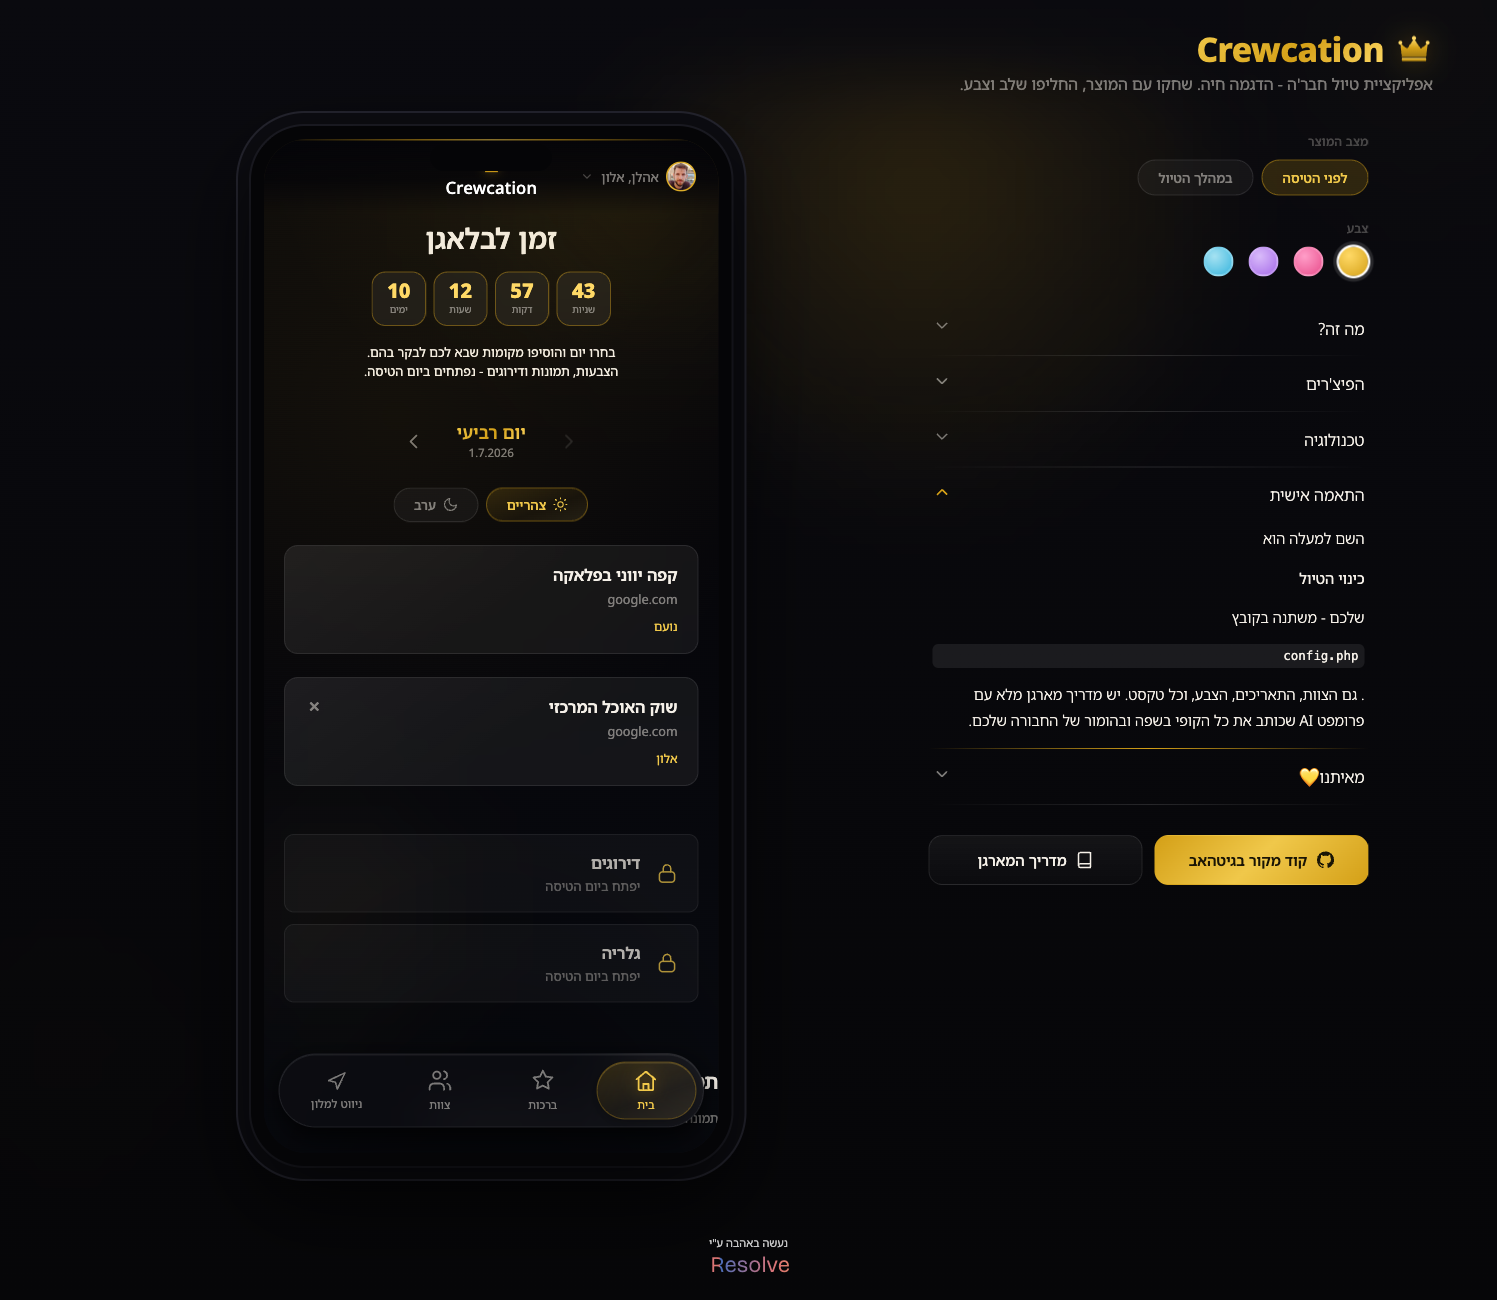
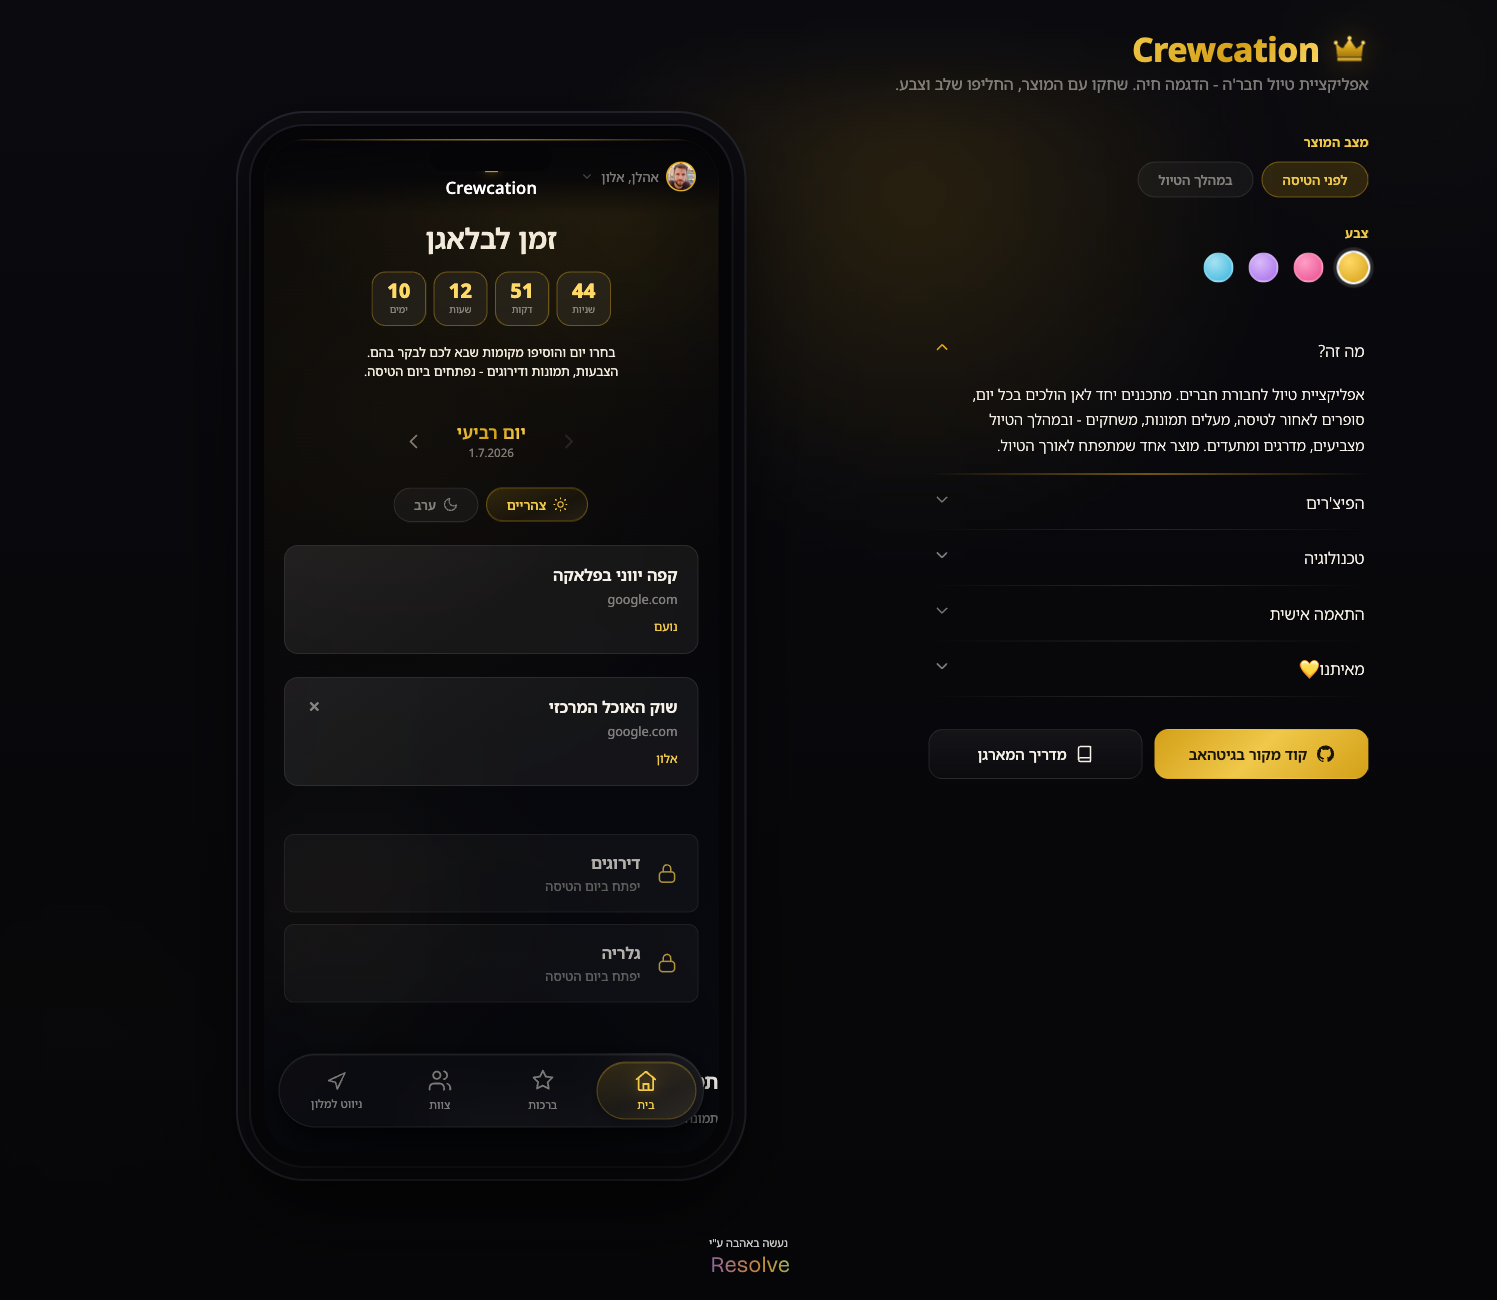
תיקון דליפת קוד בכרטיס החתן + ליטוש פלייגראונד
- באג קריטי: ?> בתוך הערת // ב-member.php שבר את הפרסור והדליף קוד PHP כטקסט
  בכרטיס החתן. תוקן - גם מחזיר את תמונות הצוות "שלרשותו"
- כותרת מיושרת עם הפאנל (אותו max-width)
- תוויות (מצב המוצר/צבע) בזהב במקום אפור - אסור אפור על כהה
- אוויר בין הבקרות לאקורדיונים
- מודל דמו נקי: בורדר זהב עדין + טשטוש רקע, בלי הצללה גסה
- ליטוש קופי "מה זה" בקול של גיא

diff --git a/assets/style.css b/assets/style.css
@@ -111,8 +111,11 @@
     background: rgba(4,4,8,0.72); backdrop-filter: blur(6px); padding: 24px; }
 .demo-modal.show { display: flex; animation: dm-fade .18s ease; }
 @keyframes dm-fade { from { opacity: 0; } to { opacity: 1; } }
-.demo-modal-card { background: var(--bg-elevated); border: 1px solid var(--border-gold); border-radius: var(--radius-xl);
-    padding: 26px 24px; max-width: 320px; text-align: center; box-shadow: var(--glow-gold); animation: dm-pop .22s cubic-bezier(.2,.8,.2,1); }
+.demo-modal-card { background: rgba(17,17,24,0.82); backdrop-filter: blur(20px); -webkit-backdrop-filter: blur(20px);
+    border: 1.5px solid var(--gold); border-radius: var(--radius-xl);
+    padding: 26px 24px; max-width: 320px; text-align: center;
+    box-shadow: 0 12px 40px rgba(0,0,0,0.5), 0 0 0 1px rgba(var(--accent-rgb),0.12);
+    animation: dm-pop .22s cubic-bezier(.2,.8,.2,1); }
 @keyframes dm-pop { from { transform: scale(.9); opacity: 0; } to { transform: scale(1); opacity: 1; } }
 .demo-modal-card .dm-emoji { font-size: 2.4rem; }
 .demo-modal-card .dm-title { font-size: 1.25rem; font-weight: 800; margin: 8px 0 6px; color: var(--gold-light); }

diff --git a/demo_showcase.php b/demo_showcase.php
@@ -33,8 +33,9 @@ declare(strict_types=1);
             100% { transform: translate(-4vw, 9vh) scale(1.05); }
         }
 
-        /* כותרת ולוגו - ימין למעלה */
-        .pg-head { display: flex; flex-direction: column; align-items: flex-start; gap: 4px; }
+        /* כותרת ולוגו - ימין למעלה, מיושר עם הפאנל */
+        .pg-head { display: flex; flex-direction: column; align-items: flex-start; gap: 4px;
+            max-width: 1240px; width: 100%; margin: 0 auto; }
         .pg-brand { display: flex; align-items: center; gap: 11px; }
         .pg-crown { width: 38px; height: 38px; filter: drop-shadow(0 0 14px var(--gold-glow)); }
         .pg-title { font-size: clamp(1.5rem, 2.6vw, 2.1rem); font-weight: 800; margin: 0; letter-spacing: -0.5px;
@@ -54,9 +55,10 @@ declare(strict_types=1);
         .phone iframe { width: 100%; height: 100%; border: 0; border-radius: 43px; background: #06060a; display: block; }
 
         /* פאנל ימני */
-        .pg-panel { display: flex; flex-direction: column; gap: 24px; padding-top: 6px; }
-        .ctrl-group { display: flex; flex-direction: column; gap: 9px; align-items: flex-start; }
-        .ctrl-label { font-size: .76rem; color: var(--text-subtle); font-weight: 500; letter-spacing: .02em; }
+        .pg-panel { display: flex; flex-direction: column; gap: 26px; padding-top: 6px; }
+        .pg-acc { margin-top: 14px; }
+        .ctrl-group { display: flex; flex-direction: column; gap: 10px; align-items: flex-start; }
+        .ctrl-label { font-size: .8rem; color: var(--gold-light); font-weight: 600; letter-spacing: .02em; }
 
         /* טוגלים עדינים - כמו צהריים/ערב במוצר */
         .phase-toggle { display: inline-flex; gap: 8px; }
@@ -151,7 +153,7 @@ declare(strict_types=1);
                     <?php $chev = '<span class="acc-chevron"><svg class="chev" viewBox="0 0 24 24" fill="none" stroke="currentColor" stroke-width="2" stroke-linecap="round" stroke-linejoin="round"><polyline points="6 9 12 15 18 9"/></svg></span>'; ?>
                     <details class="acc" open>
                         <summary><span class="acc-title">מה זה?</span><?= $chev ?></summary>
-                        <div class="acc-body">אפליקציית טיול לחבורת חברים. מתכננים יחד לאן הולכים בכל יום, סופרים לאחור לטיסה, מעלים תמונות, משחקים - ובמהלך הטיול מצביעים, מדרגים ומתעדים. מוצר אחד שמתפתח לאורך הטיול.</div>
+                        <div class="acc-body">כל טיול חבר'ה ראוי לאפליקציה משלו. מתכננים יחד לאן הולכים בכל יום, סופרים לאחור לטיסה, מעלים תמונות ומשחקים - ובמהלך הטיול מצביעים, מדרגים ומתעדים הכל. מוצר אחד שחי איתכם מהרגע שקנו את הכרטיסים ועד הנחיתה בחזרה.</div>
                     </details>
                     <details class="acc">
                         <summary><span class="acc-title">הפיצ'רים</span><?= $chev ?></summary>

diff --git a/member.php b/member.php
@@ -20,7 +20,7 @@ function profile_photo(string $uid): ?string {
 }
 $photo = profile_photo($mid);
 
-// לעמוד החתן: שאר חברי <?= htmlspecialchars(APP_NAME) ?>
+// לעמוד החתן: שאר חברי הצוות שלרשותו
 $crew = [];
 if (!empty($m['is_groom'])) {
     foreach (USERS as $uid => $u) {